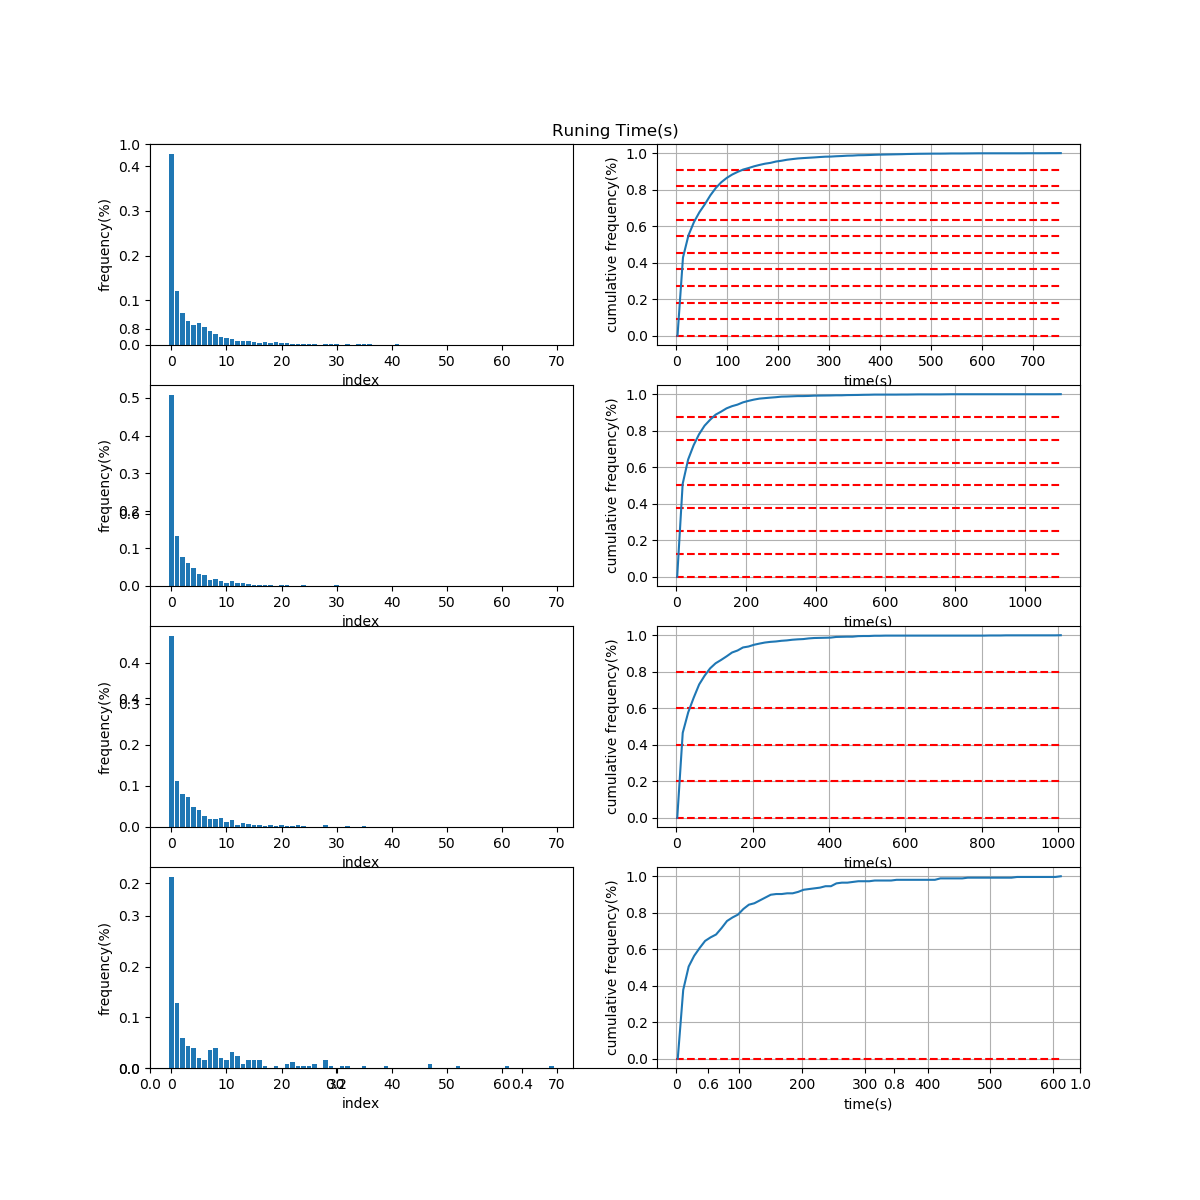
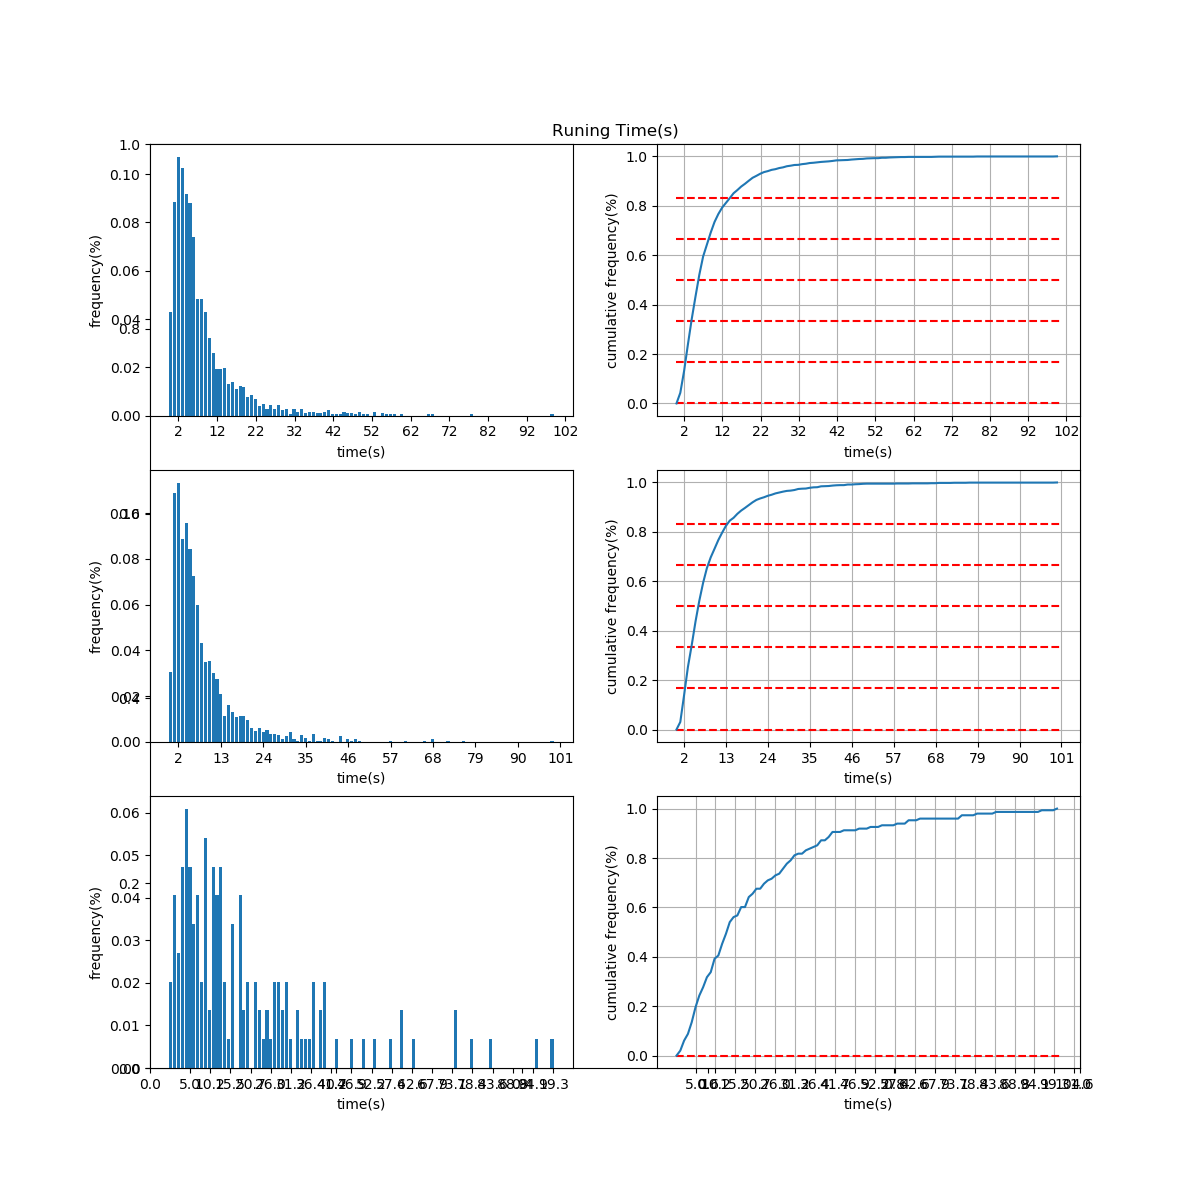
Time: 2019-09-20 18:10:09

diff --git a/1_preprocessing.py b/1_preprocessing.py
@@ -6,7 +6,7 @@
 @Github: https://github.com/isLouisHsu
 @E-mail: is.louishsu@foxmail.com
 @Date: 2019-09-19 11:01:14
-@LastEditTime: 2019-09-20 15:48:31
+@LastEditTime: 2019-09-20 18:09:45
 @Update: 
 '''
 import os
@@ -18,7 +18,11 @@ import pywt
 
 from dwt_signal_decomposition import plot_signal_decomp, dwtDecompose
 
-IDLETHRESH = 3.
+IDLETHRESH = 2.
+MAXSPEEDTHRESH = 5.
+MAXACCABS  = 17
+MINTIME    = 20
+MINRUNTIME = 3
 
 def timestamp2unix(timestamp):
     """
@@ -90,7 +94,7 @@ def cutSpeedSequences(timestamp, speedSeq, speedThresh=IDLETHRESH):
     # speedSeq[speedSeq < speedThresh] = 0.                                           # 小于阈值作怠速处理
     speedSequences = list(map(lambda x: speedSeq[x[0]: x[1]], cutIndex))
 
-    return speedSequences
+    return np.array(speedSequences)
 
 def calFeaturesOfSequence(seq, speedThresh=IDLETHRESH, maxIdle=180, dwtTime=1):
     """
@@ -175,19 +179,59 @@ if __name__ == "__main__":
 
         # gpsSpeed = dwtDecompose(gpsSpeed, 2)
 
+        # --------------------------------------
+        ## 切分序列
         print("Cutting sequences...")
         if os.path.exists('output/gpsSpeedSequences_file%d.npy' % i):
             gpsSpeedSeq = np.load('output/gpsSpeedSequences_file%d.npy' % i)
         else:
             gpsSpeedSeq = cutSpeedSequences(timestamp, gpsSpeed)
-            np.save('output/gpsSpeedSequences_file%d.npy' % i, gpsSpeedSeq)
+
+        # --------------------------------------
+        ## 计算特征
+        print("Calculating features...")
+        gpsSpeedFeat = np.stack(list(map(calFeaturesOfSequence, gpsSpeedSeq)), 0)
+        
+        # --------------------------------------
+        ## 删除峰值速度小于阈值的序列
+        n_samples = gpsSpeedFeat.shape[0]
+        print("Deleting some sequences...")
+        index = gpsSpeedFeat[:, 0] > MAXSPEEDTHRESH
+        gpsSpeedFeat = gpsSpeedFeat[index]
+        gpsSpeedSeq  = gpsSpeedSeq [index]
+        print("Delete %d samples" % (n_samples - gpsSpeedFeat.shape[0]))
+
+        ## 删除加速度大于阈值的序列
+        n_samples = gpsSpeedFeat.shape[0]
+        index = np.bitwise_and(
+            gpsSpeedFeat[:, 9] < MAXACCABS, 
+            gpsSpeedFeat[:, 11] > - MAXACCABS)
+        gpsSpeedFeat = gpsSpeedFeat[index]
+        gpsSpeedSeq  = gpsSpeedSeq [index]
+        print("Delete %d samples" % (n_samples - gpsSpeedFeat.shape[0]))
+
+        ## 删除总时长小于阈值的序列
+        n_samples = gpsSpeedFeat.shape[0]
+        index = gpsSpeedFeat[:, 4] > MINTIME
+        gpsSpeedFeat = gpsSpeedFeat[index]
+        gpsSpeedSeq  = gpsSpeedSeq [index]
+        print("Delete %d samples" % (n_samples - gpsSpeedFeat.shape[0]))
+
+        ## 删除运行时长小于阈值的序列
+        n_samples = gpsSpeedFeat.shape[0]
+        index = gpsSpeedFeat[:, 3] > MINRUNTIME
+        gpsSpeedFeat = gpsSpeedFeat[index]
+        gpsSpeedSeq  = gpsSpeedSeq [index]
+        print("Delete %d samples" % (n_samples - gpsSpeedFeat.shape[0]))
+
+        # --------------------------------------
+        ## 保存
         print("Number of sequences: %d, Mean of sequences' length: %f" 
                 % (len(gpsSpeedSeq), gpsSpeed.shape[0] / len(gpsSpeedSeq)))
 
-        print("Calculating features...")
-        gpsSpeedFeat = np.stack(list(map(calFeaturesOfSequence, gpsSpeedSeq)), 0)
+        np.save('output/gpsSpeedSequences_file%d.npy' % i, gpsSpeedSeq)
         np.save('output/gpsSpeedFeat_file%d.npy' % i, gpsSpeedFeat)
-    
+
     plt.savefig("images/1_gpsSpeed.png")
     plt.show()
     ## 小波变换去噪

diff --git a/3_histClustering.py b/3_histClustering.py
@@ -6,19 +6,20 @@
 @Github: https://github.com/isLouisHsu
 @E-mail: is.louishsu@foxmail.com
 @Date: 2019-09-19 21:22:25
-@LastEditTime: 2019-09-20 15:57:40
+@LastEditTime: 2019-09-20 18:06:48
 @Update: 
 '''
 import os
 import numpy as np
 from matplotlib import pyplot as plt
+from sklearn.cluster import KMeans
 from sklearn.externals import joblib
 from sklearn.mixture import GaussianMixture
 
 n_components = input("Please enter the number of components(default 6): ")
 n_components = 6 if n_components == '' else int(n_components)
-n_clusters = input("Please enter the number of clusters(default 5): ")
-n_clusters = 5 if n_clusters == '' else int(n_clusters)
+n_clusters   = input("Please enter the number of clusters  (default 5): ")
+n_clusters   = 5 if n_clusters == '' else int(n_clusters)
 pipeline = joblib.load("output/model_pca%d_kmeans%d.pkl" % (n_components, n_clusters))
 
 sequences = []
@@ -43,6 +44,8 @@ for i in range(n_classes):
             ax.set_ylabel("km/h")
         if j == 0:
             ax.set_title("class %d" % (i))
+        if j == n_sequences - 1:
+            ax.set_xlabel("time(s)")
 plt.savefig("images/3_sequences_kmeans.png")
 
 # ------------------------------------------------------------
@@ -51,9 +54,10 @@ index = 0
 chosenFeat = features[:, index]
 plt.figure()
 plt.title("Chosen Feature - all")
+plt.xlabel("speed(km/h)")
 plt.ylabel("Number")
 plt.xlim(0, chosenFeat.max())
-plt.ylim(0, 500)
+# plt.ylim(0, 350)
 n, bins, patches = plt.hist(chosenFeat, bins=int(chosenFeat.max() - chosenFeat.min()) + 1, facecolor='blue', edgecolor='white')
 plt.savefig("images/3_feat_hist.png")
 
@@ -62,6 +66,8 @@ plt.title("Chosen Feature - classes")
 for i in range(n_classes):
     subChosenFeat = features[y == i][:, index]
     plt.subplot(n_classes, 1, i + 1)
+    if i == n_classes - 1:
+        plt.xlabel("speed(km/h)")
     plt.ylabel("Number - class %d" % i)
     plt.xlim(0, chosenFeat.max())
     plt.ylim(0, 400)
@@ -70,8 +76,7 @@ plt.savefig("images/3_feat_hist_subseq.png")
 
 # ------------------------------------------------------------
 ## 删除两种多余的运动学片段，重新计算标签
-deleteClassIndex = [0, 3]
-# deleteClassIndex = []
+deleteClassIndex = [1, 2]   # TODO:
 index = np.ones(features.shape[0], dtype=np.bool)
 for idx in deleteClassIndex:
     idx = y != idx
@@ -84,17 +89,18 @@ n_classes = len(set(y))
 
 # ------------------------------------------------------------
 ## 绘制高斯混合模型曲线
-gmm = GaussianMixture(n_components=n_components)
+gmm = GaussianMixture(n_components=n_classes)
 gmm.fit(chosenFeat.reshape(-1, 1))
 n, bins = np.histogram(chosenFeat, bins=int(chosenFeat.max() - chosenFeat.min()) + 1)
 plt.figure()
 plt.title("Chosen Feature - GMM")
+plt.xlabel("speed(km/h)")
+# plt.ylim(0, 0.02)
 plt.ylabel("P")
-for i in range(n_components):
+for i in range(n_classes):
     mu, sigma = gmm.means_[i, 0], gmm.covariances_[i, 0]
     y_ = np.exp(-0.5*np.square((bins-mu)/sigma))/(np.sqrt(2*np.pi)*sigma)
-    # plt.plot(bins, y_ * gmm.weights_[i], 'b')
-    plt.plot(bins, y_ * gmm.weights_[i])
-    plt.grid()
+    plt.plot(bins, y_ * gmm.weights_[i], label="mu=%.2f sigma=%.2f" % (mu, sigma))
+    plt.grid(); plt.legend()
 plt.savefig("images/3_feat_hist_GMM.png")
 plt.show()

diff --git a/2_clustering.py b/2_clustering.py
@@ -6,7 +6,7 @@
 @Github: https://github.com/isLouisHsu
 @E-mail: is.louishsu@foxmail.com
 @Date: 2019-09-19 17:58:02
-@LastEditTime: 2019-09-20 15:08:47
+@LastEditTime: 2019-09-20 17:52:54
 @Update: 
 '''
 import os
@@ -16,24 +16,24 @@ import matplotlib.pyplot as plt
 from sklearn.pipeline import Pipeline
 from sklearn.preprocessing import StandardScaler, MinMaxScaler
 from sklearn.decomposition import PCA
-from sklearn.cluster import KMeans, DBSCAN
+from sklearn.cluster import KMeans
 from sklearn.model_selection import GridSearchCV
 from sklearn.externals import joblib
 
 SCALAR = StandardScaler
 
-speedFeats = []
+features = []
 for i in range(1, 4):
-    speedFeat = np.load('output/gpsSpeedFeat_file%d.npy' % i)
-    speedFeats += [speedFeat]
-speedFeats = np.concatenate(speedFeats, axis=0)
-n_samples, n_features = speedFeats.shape
-print("Shape of samples: ", speedFeats.shape)
+    feature = np.load('output/gpsSpeedFeat_file%d.npy' % i)
+    features += [feature]
+features = np.concatenate(features, axis=0)
+n_samples, n_features = features.shape
+print("Shape of samples: ", features.shape)
 
 # ------------------------------------------------------------------
 steps = [('scaler', SCALAR()), ('pca', PCA(n_components=n_features))]
 pipline = Pipeline(steps)
-pipline.fit(speedFeats)
+pipline.fit(features)
 
 plt.figure(figsize=(8, 4))
 plt.title('Explained Variance(Eigen Values) Ratio of PCA')
@@ -64,8 +64,8 @@ scores = []
 n_clusters_list = list(range(3, 15))
 for n_clusters in n_clusters_list:
     pipline.set_params(kmeans__n_clusters=n_clusters)
-    pipline.fit(speedFeats)
-    scores += [pipline.score(speedFeats)]
+    pipline.fit(features)
+    scores += [pipline.score(features)]
 
 plt.figure()
 plt.title("K-means' Scores(n_components=%d)" % n_components)
@@ -77,7 +77,7 @@ plt.savefig("images/2_kmeans.png")
 plt.show()
 
 # ------------------------------------------------------------------
-n_clusters = input("Please enter the number of clusters(default 5): ")
+n_clusters = input("Please enter the number of clusters  (default 5): ")
 n_clusters = 5 if n_clusters == '' else int(n_clusters)
 steps = [
         ('scaler', SCALAR()), 
@@ -85,8 +85,8 @@ steps = [
         ('kmeans', KMeans(n_clusters=n_clusters)),
     ]
 pipline = Pipeline(steps)
-pipline.fit(speedFeats)
-y = pipline.predict(speedFeats)
+pipline.fit(features)
+y = pipline.predict(features)
 np.save("output/seqLabels_pca%d_kmeans%d.npy" % (n_components, n_clusters), y)
 joblib.dump(pipline, "output/model_pca%d_kmeans%d.pkl" % (n_components, n_clusters))
 

diff --git a/4_splitSpeedIntercal.py b/4_splitSpeedIntercal.py
@@ -6,7 +6,7 @@
 @Github: https://github.com/isLouisHsu
 @E-mail: is.louishsu@foxmail.com
 @Date: 2019-09-20 11:07:51
-@LastEditTime: 2019-09-20 15:56:00
+@LastEditTime: 2019-09-20 18:05:34
 @Update: 
 '''
 import os
@@ -30,7 +30,7 @@ features  = features [index]
 
 # ------------------------------------------------------------------------------------
 totalTime = 1200.
-featLandmarks = [5, 10, 20, ]
+featLandmarks = [12, 25]   # TODO:
 sumRunTime = np.sum(features[:, 3])                         # 运行时间(s)
 
 ## 删除运行时间大于`totalTime`的序列
@@ -44,7 +44,7 @@ fig = plt.figure(figsize=(12, 12)); plt.title("Runing Time(s)")
 T = []; t = []; N = []
 for i in range(len(featLandmarks) + 1):
 
-    ## 当前速度区间
+    ## 速度区间
     if i == 0:
         index = feat < featLandmarks[i]
     elif i == len(featLandmarks):
@@ -55,27 +55,27 @@ for i in range(len(featLandmarks) + 1):
         index  = np.bitwise_and(index1, index2)
     subSequence = sequences[index]
     subFeature  = features [index]
+
+    n, bins = np.histogram(subFeature[:, 3], bins=100)
+    freq = n / n.sum()
+    cumFreq = [0] + [np.sum(freq[:i+1]) for i in range(freq.shape[0])]
     
     Tk = subFeature[:, 3].sum() / sumRunTime * totalTime    # 当前速度区间，运动片段运行时长之和 / 所有运动片段运行时长之和
     tk = subFeature[:, 3].mean()                            # 当前速度区间，平均运行时长
     Nk = int(np.round(Tk / tk))                             # 当前速度区间，划分的累积频率区间数目
     T += [Tk]; t += [tk]; N += [Nk]
-
-    n, bins = np.histogram(subFeature[:, 3], bins=70)
-    # print(bins)
-    freq = n / n.sum()
-    cumFreq = [0] + [np.sum(freq[:i+1]) for i in range(freq.shape[0])]
     
     ax = fig.add_subplot(len(featLandmarks) + 1, 2, i * 2 + 1)
-    ax.set_xlabel("index")
+    ax.set_xlabel("time(s)"); ax.set_xticks(bins)
     ax.set_ylabel("frequency(%)")
     ax.bar(list(range(freq.shape[0])), freq)
+    # ax.set_xlim(0, 20)
     ax = fig.add_subplot(len(featLandmarks) + 1, 2, i * 2 + 2)
-    ax.set_xlabel("time(s)")
+    ax.set_xlabel("time(s)"); ax.set_xticks(bins)
     ax.set_ylabel("cumulative frequency(%)")
-    for i in range(Nk): ax.hlines(i / Nk, 0, subFeature[:, 3].max(), 'r', 'dashed')
+    for i in range(Nk): ax.hlines(i / Nk, 0, len(cumFreq), 'r', 'dashed')
     # ax.vlines(tk, 0, 1, 'r', 'dotted')
-    ax.plot(bins, cumFreq)
+    ax.plot(cumFreq)
     ax.grid()
 
 print(T, t, N)
